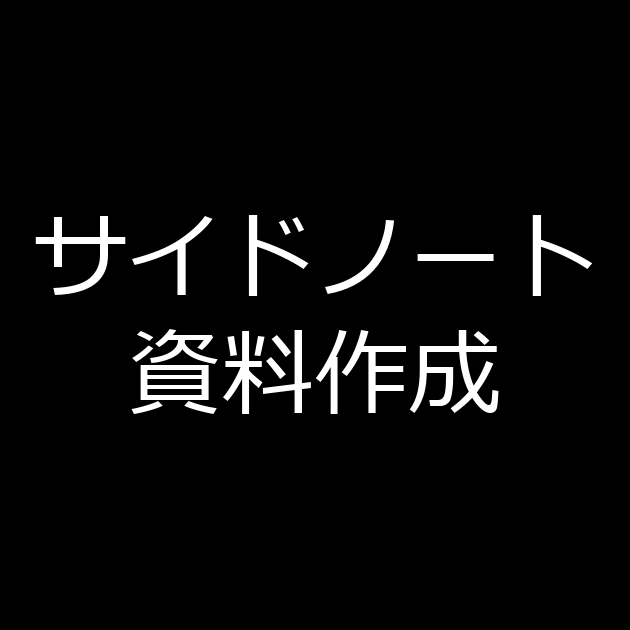
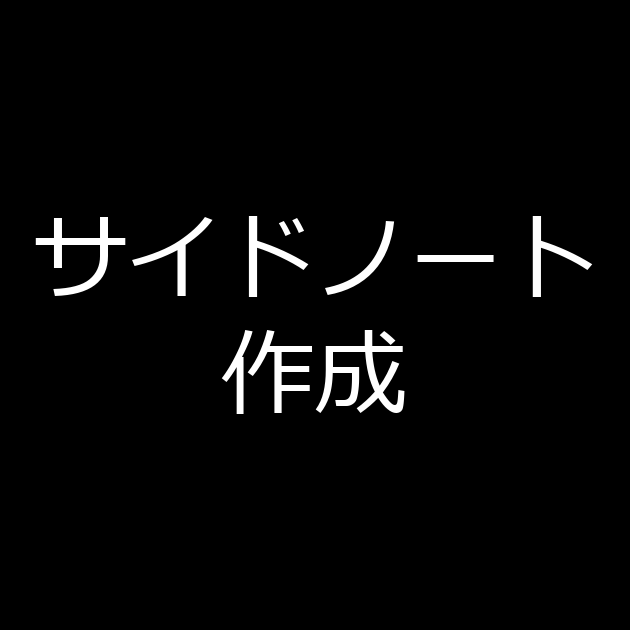
Update sidenote-pdf

diff --git a/public/index.html b/public/index.html
@@ -3,11 +3,11 @@
 <head>
 <meta charset="utf-8">
 <meta name="viewport" content="width=device-width, initial-scale=1">
-<title>サイドノート資料作成</title>
+<title>サイドノート作成</title>
 <link rel="icon" type="image/svg+xml" href="favicon.svg">
 <meta property="og:type" content="website">
 <meta property="og:url" content="https://sidenote-pdf.pages.dev/">
-<meta property="og:title" content="サイドノート資料作成">
+<meta property="og:title" content="サイドノート作成">
 <meta property="og:description" content="文章やスクショにサイドノートを書き込んでPDFにできるツール">
 <!-- og:imageは正方形を1枚目に置く。多くのクローラー(Teams等)は複数og:imageのうち
      1枚目を機械的に使い、小さいサムネイル枠では中央を正方形にトリミングする。1枚目が
@@ -23,7 +23,7 @@
 <meta property="og:image:height" content="630">
 <meta property="og:image:type" content="image/png">
 <meta name="twitter:card" content="summary_large_image">
-<meta name="twitter:title" content="サイドノート資料作成">
+<meta name="twitter:title" content="サイドノート作成">
 <meta name="twitter:description" content="文章やスクショにサイドノートを書き込んでPDFにできるツール">
 <meta name="twitter:image" content="https://sidenote-pdf.pages.dev/og-image-large.png">
 <!-- ?v=NUM はキャッシュ対策。style.css/app.jsを直す度に、直したファイルの番号だけ+1する。 -->
@@ -32,7 +32,7 @@
 <body>
 
 <div class="app-frame">
-<h1 class="app-title">サイドノート資料作成</h1>
+<h1 class="app-title">サイドノート作成</h1>
 <!-- 機能説明はカード形式（旧・箇条書きの.hintから移行）。「次回から表示しない」で#introSection
      ごと隠し、再表示はヘルプパネル内のチェックボックスから行う（showIntro、localStorageで永続化）。 -->
 <div class="intro" id="introSection">

diff --git a/scripts/make_og_image.py b/scripts/make_og_image.py
@@ -30,7 +30,7 @@ def fit(draw, text, avail_w, start_size, cap=None):
 def make_square():
     size = 630
     pad_x = 30
-    line1, line2 = "サイドノート", "資料作成"
+    line1, line2 = "サイドノート", "作成"
 
     scratch = ImageDraw.Draw(Image.new("RGB", (10, 10)))
     avail_w = size - 2 * pad_x
@@ -61,7 +61,7 @@ def make_square():
 def make_large():
     w, h = 1200, 630
     pad_x_title, pad_x_sub, gap = 90, 90, 40
-    title = "サイドノート資料作成"
+    title = "サイドノート作成"
     subtitle = "文章やスクショにサイドノートを書き込んでPDFにできるツール"
 
     scratch = ImageDraw.Draw(Image.new("RGB", (10, 10)))
